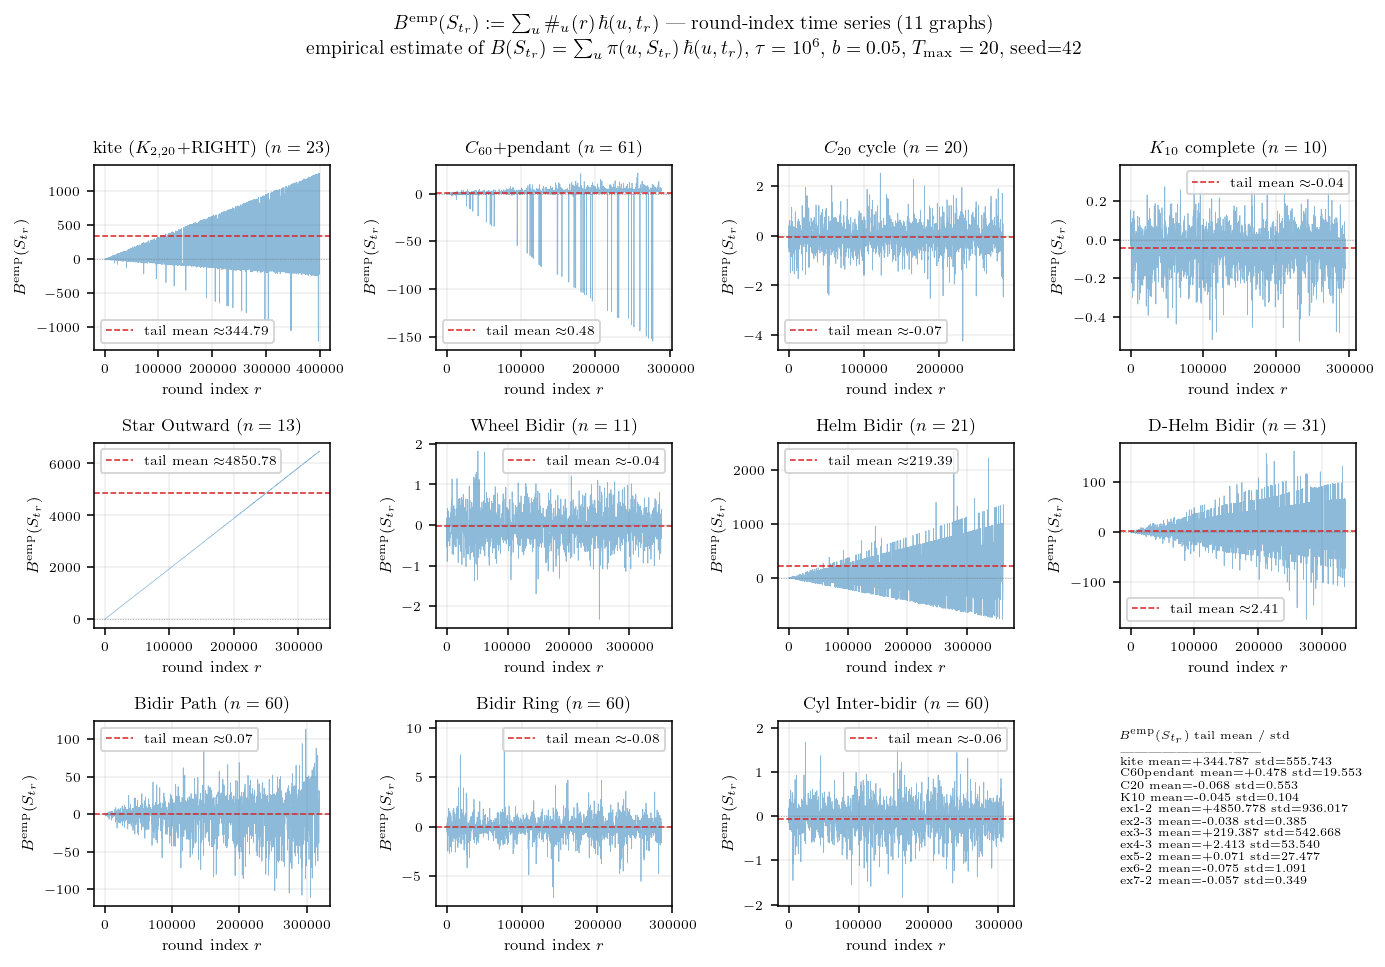
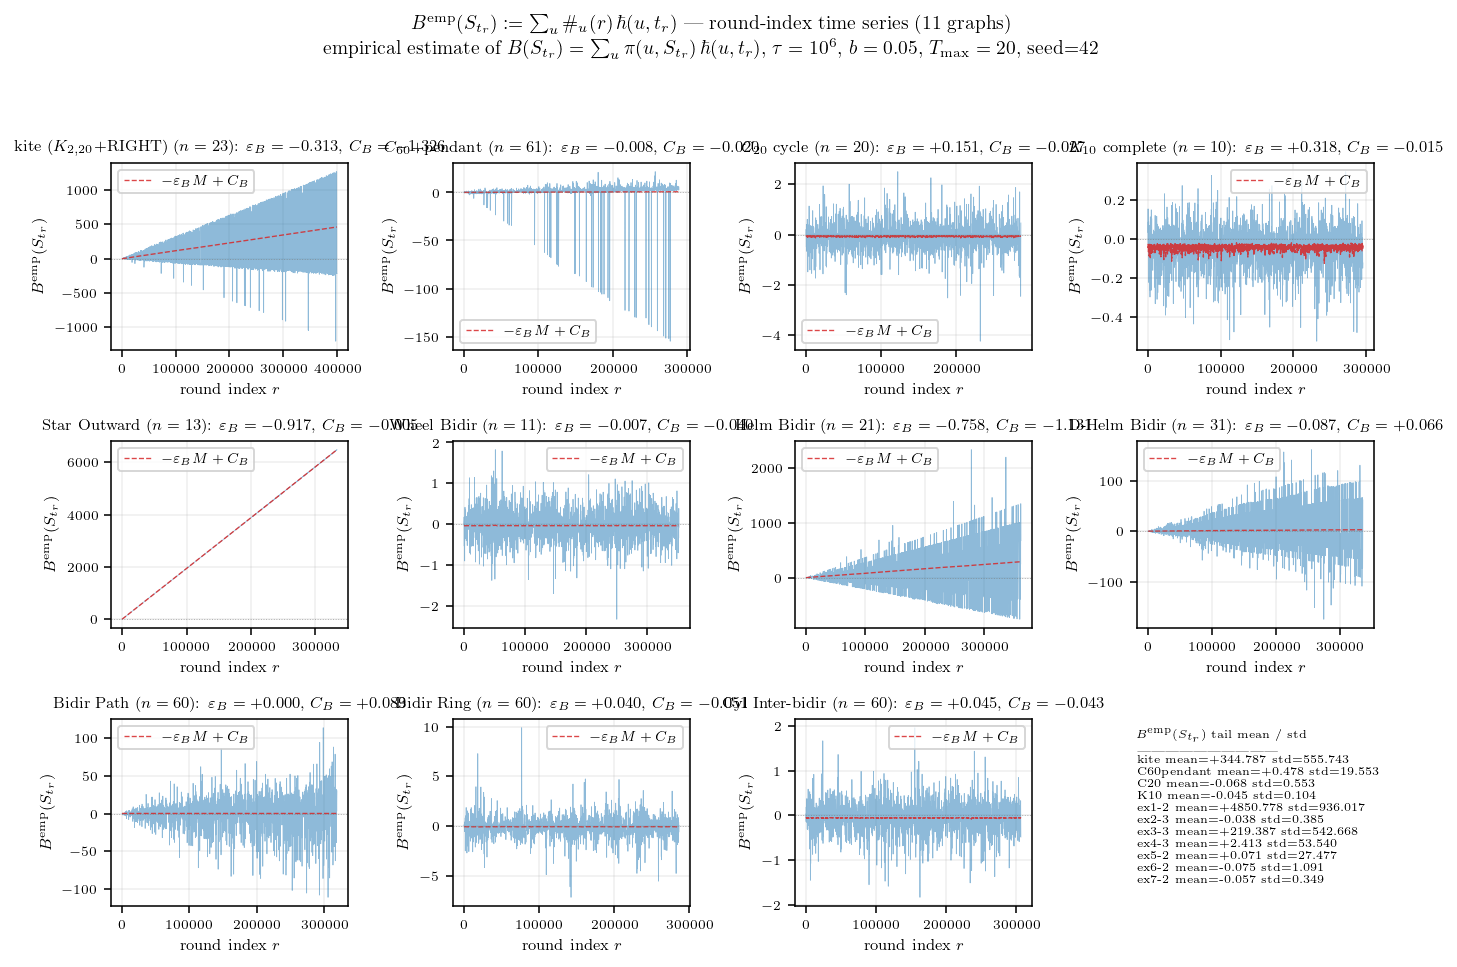
update: Foster B 시계열 figure — subplot 제목에 ε_B/C_B + 빨간 점선 -ε_B M + C_B (기존 tail mean 점선 제거)

diff --git a/docs/Posts/260522_31c9e5.html b/docs/Posts/260522_31c9e5.html
@@ -223,12 +223,18 @@ window.Quarto = {
 
 <!-- 소유권자: 소미 | 사용자: 소미 -->
 <!-- Modified: 2026-05-22 by 소미 -->
-<p>에이의 ABC 통합증명 PDF §3.4 의 Foster’s drift criterion (Assumption 1) 이 그래프와 파라미터에 따라 실제로 잘 성립하는지 실험으로 본다. 본 글은 (B) 실험 결과 공유용으로 판정하고 §2.6/§2.7 적용 면제로 진행한다.</p>
+<p>에이의 ABC 통합증명 PDF §3.4 의 Foster’s drift criterion (Assumption 1) 이 그래프와 파라미터에 따라 실제로 잘 성립하는지 실험으로 본다.</p>
 <p><img src="attachments/260522_31c9e5_02.png" class="img-fluid"></p>
-<p>그래프 클래스에 따라 <span class="math inline">\(M(S_{t_r})\)</span> 시계열이 두 종류로 명확히 나뉜다. fully symmetric (Cycle, Complete, Ring, Cylinder bidir) 은 시계열이 작은 상수 (∼ 1) 부근에서 흔들리는 bounded process — height range 가 시간이 흘러도 일정 scale 위로 안 커진다 — 이를 <strong>그룹 A</strong> 라 부르자. 반대로 비대칭 그래프 (kite, Helm Bidir, Star Outward, <span class="math inline">\(C_{60}\)</span>+pendant 등) 는 시계열이 round 가 진행할수록 거의 선형으로 발산 — height range 가 무한히 커진다 — <strong>그룹 C</strong>.</p>
-<p>수열 <span class="math inline">\(\{M(S_{t_r})\}_r\)</span> 자체의 성질이 궁금하다. 독립인가, correlated 인가, mixing 인가, 확률적 유계 (<span class="math inline">\(O_p(1)\)</span>) 인가, tight 인가? 그룹 C 는 <span class="math inline">\(M_r\)</span> 자체가 round 따라 발산이라 진단의 답이 자명 (mixing X, tight X, <span class="math inline">\(M_r = \Theta_p(r)\)</span>) — 흥미는 그룹 A 안에서 어떻게 갈리는지에 있다. 그룹 A 5 그래프 (<span class="math inline">\(K_{10}\)</span>, <span class="math inline">\(C_{20}\)</span>, Cyl Inter-bidir, Wheel Bidir, Bidir Ring) 에 두 진단을 적용한다.</p>
+<p>그래프 클래스에 따라 <span class="math inline">\(M(S_{t_r})\)</span> 시계열이 두 종류로 명확히 나뉜다.</p>
+<ul>
+<li>그룹A: fully symmetric (Cycle, Complete, Ring, Cylinder bidir) 은 시계열이 작은 상수 (∼ 1) 부근에서 흔들리는 bounded process. 이런것들은 height range 가 시간이 흘러도 일정 scale 위로 안 커진다.</li>
+<li>그룹B: 비대칭 그래프 (kite, Helm Bidir, Star Outward, <span class="math inline">\(C_{60}\)</span>+pendant 등) 는 시계열이 round 가 진행할수록 거의 선형으로 발산. 이런것들은 height range 가 무한히 커진다.</li>
+</ul>
+<hr>
+<p>수열 <span class="math inline">\(\{M(S_{t_r})\}_r\)</span> 자체의 성질이 궁금하다. 독립인가, correlated 인가, mixing 인가, 확률적 유계 (<span class="math inline">\(O_p(1)\)</span>) 인가? 그룹 C 는 <span class="math inline">\(M_r\)</span> 자체가 round 따라 발산이라 진단의 답이 자명 (mixing X, tight X, <span class="math inline">\(M_r = \Theta_p(r)\)</span>) 하므로, 흥미는 그룹 A 안에서 어떻게 갈리는지에 있다. 그룹 A 5 그래프 (<span class="math inline">\(K_{10}\)</span>, <span class="math inline">\(C_{20}\)</span>, Cyl Inter-bidir, Wheel Bidir, Bidir Ring) 에 진단을 적용한다.</p>
 <p><img src="attachments/260522_31c9e5_03.png" class="img-fluid"></p>
-<p>sample autocorrelation <span class="math inline">\(\rho(k) := \mathrm{Corr}(M_r, M_{r+k})\)</span> — i.i.d. 이면 lag 1 부터 <span class="math inline">\(\pm 1.96/\sqrt{n}\)</span> 신뢰구간 안. 그룹 A 5 그래프 모두 lag-1 ACF <span class="math inline">\(\rho(1) \in [0.92, 0.999]\)</span> — 강 양상관, 명백히 독립이 아니다. mixing 속도는 그래프마다 차이가 크다. <span class="math inline">\(K_{10}\)</span> 은 lag 100 부근에서 <span class="math inline">\(\rho \approx 0\)</span> 으로 수렴 — 짧은 lag 안에 mixing. <span class="math inline">\(C_{20}\)</span> 은 lag 100 에서도 <span class="math inline">\(\rho \approx 0.55\)</span>, Cyl Inter-bidir 는 <span class="math inline">\(\rho \approx 0.76\)</span>, Wheel Bidir·Bidir Ring 은 <span class="math inline">\(\rho \approx 0.9\)</span> 로 mixing 이 매우 느리다 — 같은 그룹 A 안에서도 mixing speed 는 <span class="math inline">\(K_{10}\)</span> 만 빠르고 나머지는 long-range correlated.</p>
+<section id="sample-autocorrelation-rhok-mathrmcorrm_r-m_rk-i.i.d.-이면-lag-1-부터-pm-1.96sqrtn-신뢰구간-안.-그룹-a-5-그래프-모두-lag-1-acf-rho1-in-0.92-0.999-강-양상관-명백히-독립이-아니다.-mixing-속도는-그래프마다-차이가-크다.-k_10-은-lag-100-부근에서-rho-approx-0-으로-수렴-짧은-lag-안에-mixing.-c_20-은-lag-100-에서도-rho-approx-0.55-cyl-inter-bidir-는-rho-approx-0.76-wheel-bidirbidir-ring-은-rho-approx-0.9-로-mixing-이-매우-느리다-같은-그룹-a-안에서도-mixing-speed-는-k_10-만-빠르고-나머지는-long-range-correlated." class="level6">
+<h6 class="anchored" data-anchor-id="sample-autocorrelation-rhok-mathrmcorrm_r-m_rk-i.i.d.-이면-lag-1-부터-pm-1.96sqrtn-신뢰구간-안.-그룹-a-5-그래프-모두-lag-1-acf-rho1-in-0.92-0.999-강-양상관-명백히-독립이-아니다.-mixing-속도는-그래프마다-차이가-크다.-k_10-은-lag-100-부근에서-rho-approx-0-으로-수렴-짧은-lag-안에-mixing.-c_20-은-lag-100-에서도-rho-approx-0.55-cyl-inter-bidir-는-rho-approx-0.76-wheel-bidirbidir-ring-은-rho-approx-0.9-로-mixing-이-매우-느리다-같은-그룹-a-안에서도-mixing-speed-는-k_10-만-빠르고-나머지는-long-range-correlated.">sample autocorrelation <span class="math inline">\(\rho(k) := \mathrm{Corr}(M_r, M_{r+k})\)</span> — i.i.d. 이면 lag 1 부터 <span class="math inline">\(\pm 1.96/\sqrt{n}\)</span> 신뢰구간 안. 그룹 A 5 그래프 모두 lag-1 ACF <span class="math inline">\(\rho(1) \in [0.92, 0.999]\)</span> — 강 양상관, 명백히 독립이 아니다. mixing 속도는 그래프마다 차이가 크다. <span class="math inline">\(K_{10}\)</span> 은 lag 100 부근에서 <span class="math inline">\(\rho \approx 0\)</span> 으로 수렴 — 짧은 lag 안에 mixing. <span class="math inline">\(C_{20}\)</span> 은 lag 100 에서도 <span class="math inline">\(\rho \approx 0.55\)</span>, Cyl Inter-bidir 는 <span class="math inline">\(\rho \approx 0.76\)</span>, Wheel Bidir·Bidir Ring 은 <span class="math inline">\(\rho \approx 0.9\)</span> 로 mixing 이 매우 느리다 — 같은 그룹 A 안에서도 mixing speed 는 <span class="math inline">\(K_{10}\)</span> 만 빠르고 나머지는 long-range correlated.</h6>
 <p><img src="attachments/260522_31c9e5_04.png" class="img-fluid"></p>
 <p>각 그래프의 round 구간 100 bin 으로 나눠 bin 별 5/50/95 quantile band + running max. 그룹 A 5 그래프 모두 quantile band 가 후미에서 일정 range 안에서 흔들리고, running max 도 작은 절대값 (≤ 2.2) 안에서 잡혀 있다. marginal 분포가 round 따라 right-shift 하지 않으니 <span class="math inline">\(\sup_r \mathbb{P}(M_r &gt; K) \to 0\)</span> as <span class="math inline">\(K \to \infty\)</span>, 즉 <strong>모두 tight (<span class="math inline">\(O_p(1)\)</span>)</strong>.</p>
 <p>그룹 C 는 시계열 figure 가 그대로 답 — mixing X, not tight, <span class="math inline">\(M_r = \Theta_p(r)\)</span>. 그룹 A 5 그래프의 measurement 와 통합 답:</p>
@@ -370,6 +376,7 @@ window.Quarto = {
 <p>OLS <span class="math inline">\(\varepsilon_B\)</span> 부호 (만족 ✓ / borderline ~ / 위반 ✗) 와 <span class="math inline">\(M\)</span> tail mean 의 자릿수가 거의 monotone 대응한다 — <span class="math inline">\(M\)</span> 시계열 진단과 OLS 회귀가 같은 결론을 가리킨다.</p>
 <p>OLS 단순 회귀에는 한 가지 한계가 있다. Helm Bidir 같은 그래프의 scatter 를 자세히 보면 점들이 cloud 가 아니라 여러 직선이 부채꼴로 펼쳐진 구조다 — round 안 walker 의 path 가 그래프 구조에 의해 finite 개의 type 으로 분류되고, 각 type 별로 visit count vector <span class="math inline">\((\#_u)_u\)</span> 가 fixed pattern 이라 type 안에서는 <span class="math inline">\(B^{\rm emp}_r\)</span> 이 <span class="math inline">\(M_r\)</span> 에 거의 선형이기 때문. 단일 직선으로 강제한 OLS slope 는 type 별 평균 trend 의 weighted 평균에 가까운데, 가정의 본질 (<span class="math inline">\(M\)</span> 의 boundedness) 은 위쪽 figure 가 더 직접적으로 보여준다.</p>
 <p>결론적으로 Assumption 1 은 ABC 의 핵심 hypothesis 임에도 모든 그래프에서 자동 성립하는 보편 명제가 아니다. Theorem A (balanced) 의 적용 범위는 사실상 그룹 A (fully symmetric 또는 거의 대칭) 로 제한될 가능성이 있고, 그룹 C (Star Outward, Helm 류, kite) 에서는 Foster-Lyapunov 가 직접 적용되지 않을 수 있다.</p>
+</section>
 <section id="어펜딕스.-표기-정리-에이-abc공유용_v2.tex-1.1-3.3-3.4" class="level2">
 <h2 class="anchored" data-anchor-id="어펜딕스.-표기-정리-에이-abc공유용_v2.tex-1.1-3.3-3.4">어펜딕스. 표기 정리 (에이 <code>abc공유용_v2.tex</code> §1.1, §3.3, §3.4)</h2>
 <table class="caption-top table">
@@ -418,9 +425,11 @@ window.Quarto = {
 </tr>
 </tbody>
 </table>
-<p>시뮬 코드와 figure 생성 코드는 본문에 포함하지 않았고 ((B) 양식, §2.6 면제), 본인 책상에 보관: <code>260522_소미_foster_verify.py</code> (s181 sequential 약 60초), <code>260522_소미_foster_figs.py</code> (B-M scatter), <code>260522_소미_foster_M_series.py</code> (<span class="math inline">\(M\)</span> 시계열), <code>260522_소미_foster_M_diag.py</code> (ACF + tightness). raw 캐시: <code>results/numeric/260522_소미_foster_verify.py/Guebins-Mac-mini.local_foster_verify.npz</code>.</p>
+<section id="시뮬-코드와-figure-생성-코드는-본인-책상에-보관-260522_소미_foster_verify.py-s181-sequential-약-60초-260522_소미_foster_figs.py-b-m-scatter-260522_소미_foster_m_series.py-m-시계열-260522_소미_foster_m_diag.py-acf-tightness.-raw-캐시-resultsnumeric260522_소미_foster_verify.pyguebins-mac-mini.local_foster_verify.npz." class="level5">
+<h5 class="anchored" data-anchor-id="시뮬-코드와-figure-생성-코드는-본인-책상에-보관-260522_소미_foster_verify.py-s181-sequential-약-60초-260522_소미_foster_figs.py-b-m-scatter-260522_소미_foster_m_series.py-m-시계열-260522_소미_foster_m_diag.py-acf-tightness.-raw-캐시-resultsnumeric260522_소미_foster_verify.pyguebins-mac-mini.local_foster_verify.npz.">시뮬 코드와 figure 생성 코드는 본인 책상에 보관: <code>260522_소미_foster_verify.py</code> (s181 sequential 약 60초), <code>260522_소미_foster_figs.py</code> (B-M scatter), <code>260522_소미_foster_M_series.py</code> (<span class="math inline">\(M\)</span> 시계열), <code>260522_소미_foster_M_diag.py</code> (ACF + tightness). raw 캐시: <code>results/numeric/260522_소미_foster_verify.py/Guebins-Mac-mini.local_foster_verify.npz</code>.</h5>
 
 
+</section>
 </section>
 
 </main> <!-- /main -->
